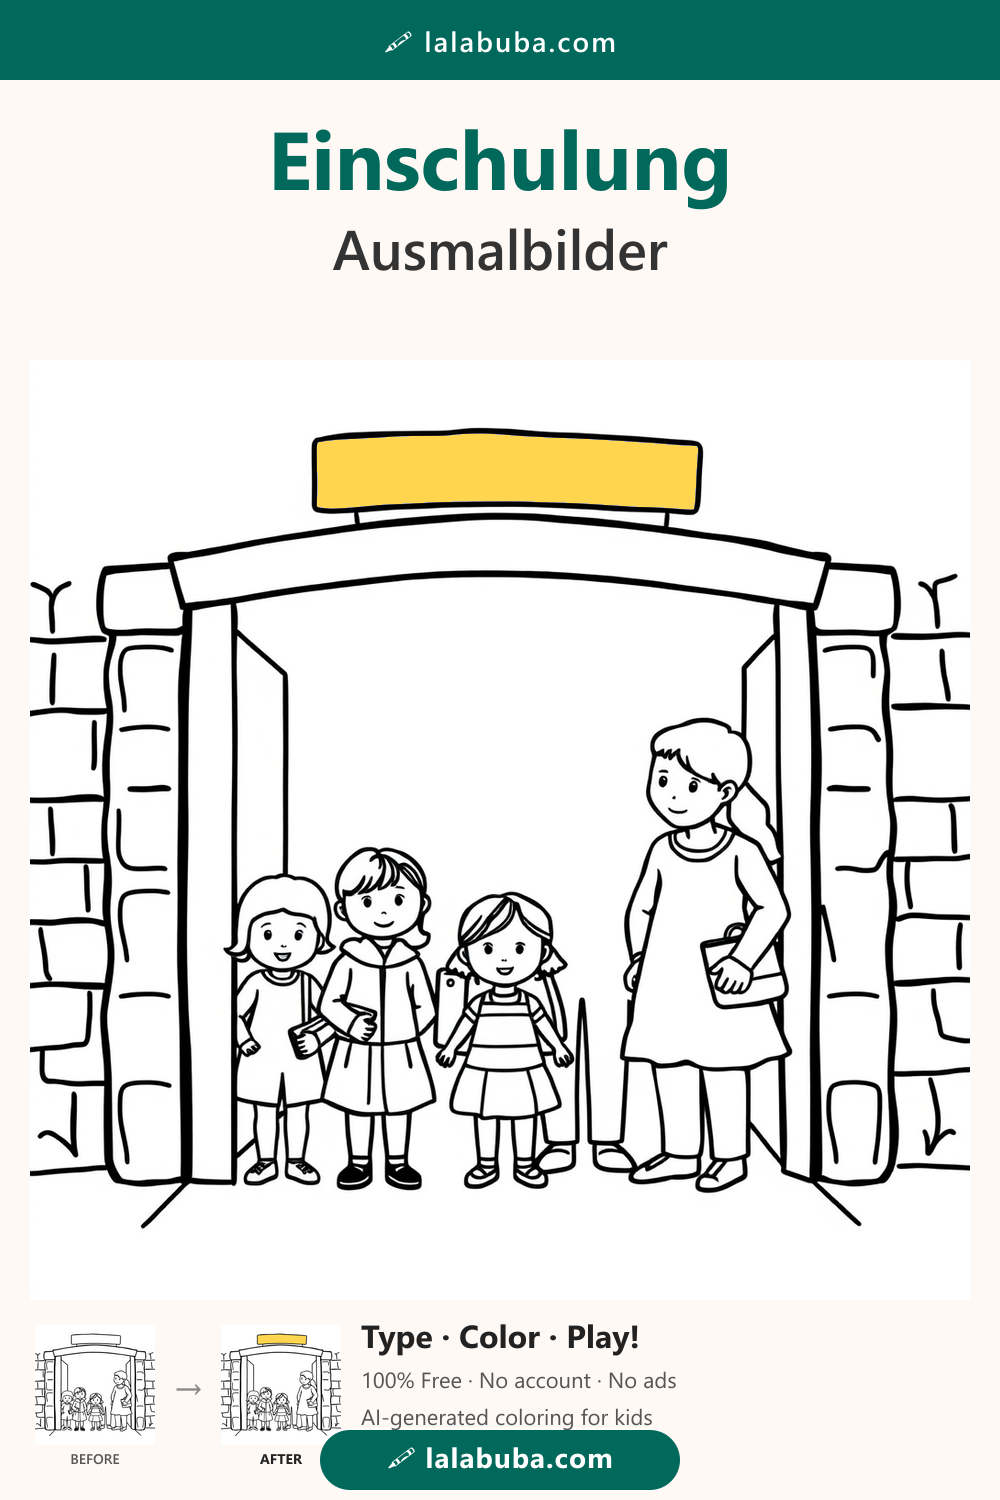
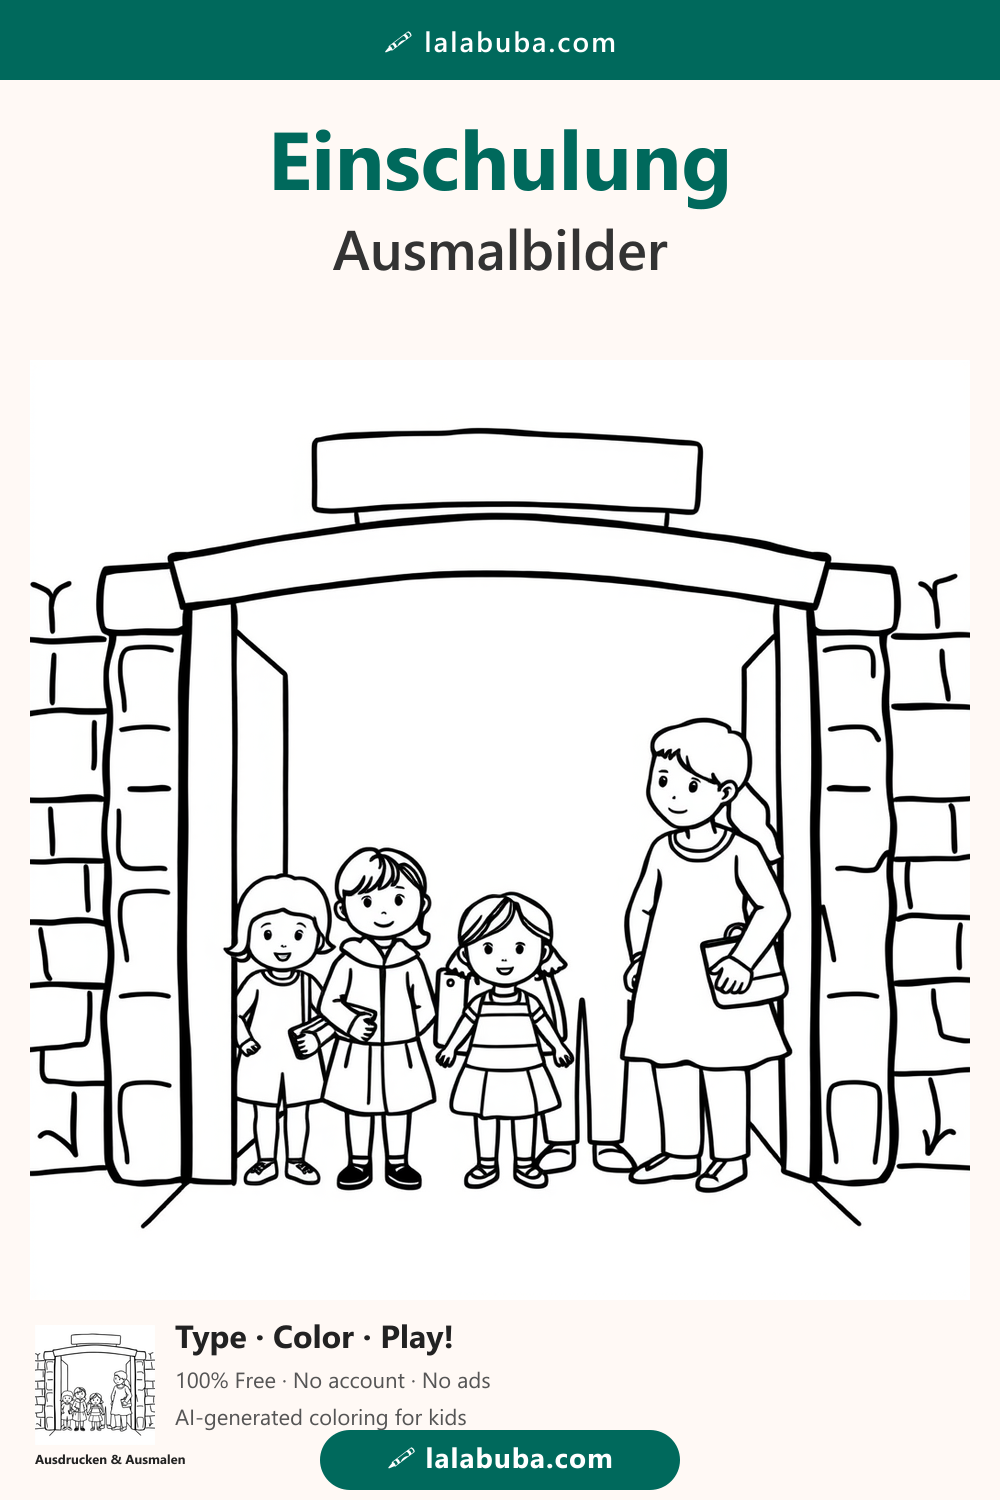
Social pins: retire schultuete, rebuild einschulung with blank line-art format
- pin_schultuete.png DELETED: duplicate of pin posted 8/5; flood-fill leaked
  through outline gaps on all 3 attempts. Manifest row marked RETIRED.
- pin_einschulung.png rebuilt with noFill: true — clean blank line art as hero,
  zero flood fill, "Ausdrucken & Ausmalen" bottom strip label. Eliminates
  the face-color defect class entirely.
- make-social-pins.js: added noFill mode, svgPrintLabel(), forcedColors param,
  bbox-overlap faceZone check.
- manifest.md: schultuete retired + no-rendered-text rule added.

Changed region(s): [[0.186, 0.8587, 0.651, 0.9813], [0.31, 0.276, 0.713, 0.3373], [0.031, 0.9507, 0.186, 0.9813]]

diff --git a/scripts/make-social-pins.js b/scripts/make-social-pins.js
@@ -51,25 +51,9 @@ const PINS = [
     accentLight: '#BBDEFB', // light blue
     keyword: 'rocket coloring pages for kids free printable',
   },
-  {
-    id: 'schultuete',
-    src: 'schultuete-easy-1313383578.png', // clean cone + candies, zero rendered text
-    headline1: 'Schultüte',
-    headline2: 'Ausmalbilder',
-    accentHex: '#B71C1C',   // deep red
-    accentLight: '#FFCDD2', // light red
-    keyword: 'Schultüte Ausmalbilder kostenlos ausdrucken',
-    skipExterior: true,
-    // Force the large cone body to classic Schultüte deep-red (Phase-1 override)
-    forcedColors: [
-      { fx: 0.50, fy: 0.70, color: [183, 28, 28] },
-    ],
-    // Phase-2 fallback: if cone interior was absorbed by skipExterior (open tip),
-    // fill it from the seed point while it's still white in `out`.
-    seeds: [
-      { fx: 0.50, fy: 0.70, color: [183, 28, 28], bounds: { x1: 0.10, y1: 0.30, x2: 0.90, y2: 0.99 } },
-    ],
-  },
+  // schultuete RETIRED (2026-08-09): a Schultüte pin already posted 8/5; flood-fill
+  // consistently leaked through outline gaps. Manifest row removed; file deleted.
+
   {
     id: 'einschulung',
     src: 'einschulung-easy-1520158737.png',
@@ -78,19 +62,9 @@ const PINS = [
     accentHex: '#00695C',   // deep teal
     accentLight: '#B2DFDB', // light teal
     keyword: 'Einschulung Ausmalbilder kostenlos ausdrucken',
-    skipExterior: true,
-    // Full-body exclusion zones in 940 px display space.
-    // The zone check uses BBOX OVERLAP (not center-point) — any region whose
-    // bounding box intersects a zone is left white.  Zones cover each person's
-    // entire silhouette so skin, faces, hands and legs are all uncolored.
-    // Architecture (sign, arch beam, outer stone walls) falls outside every zone
-    // and is still colorized.
-    faceZones: [
-      { x1:  70, y1: 255, x2: 258, y2: 935 }, // child 1 (leftmost)
-      { x1: 158, y1: 208, x2: 378, y2: 935 }, // child 2 (center-left, tallest)
-      { x1: 305, y1: 248, x2: 538, y2: 935 }, // child 3 (center-right, backpack)
-      { x1: 548, y1: 165, x2: 822, y2: 935 }, // teacher (right side, adult)
-    ],
+    // noFill: blank line-art hero — the account's #1 pin format for printable-seekers.
+    // Eliminates the entire flood-fill face-color defect class.
+    noFill: true,
   },
 ];
 
@@ -276,6 +250,13 @@ function svgHeadline(line1, line2, accentHex) {
   </svg>`;
 }
 
+function svgPrintLabel() {
+  return `<svg xmlns="http://www.w3.org/2000/svg" width="200" height="20">
+    <text x="0" y="15" font-family="Segoe UI, Arial, sans-serif" font-size="13"
+      font-weight="700" fill="#222222">Ausdrucken &amp; Ausmalen</text>
+  </svg>`;
+}
+
 function svgBeforeLabel(x, y) {
   return `<svg xmlns="http://www.w3.org/2000/svg" width="120" height="20">
     <text x="60" y="15" font-family="Segoe UI, Arial, sans-serif" font-size="14"
@@ -342,18 +323,22 @@ async function makePin(cfg) {
     .raw()
     .toBuffer();
 
-  console.log(`  Flood-filling ${dispW}×${dispH}...`);
-  const coloredRaw = autoColorize(lineArtBuf, dispW, dispH, {
-    skipExterior:  cfg.skipExterior  || false,
-    faceZones:     cfg.faceZones     || [],
-    seeds:         cfg.seeds         || [],
-    forcedColors:  cfg.forcedColors  || [],
-  });
-
-  // Build colored PNG buffer from raw RGBA
-  const coloredBuf = await sharp(coloredRaw, { raw: { width: dispW, height: dispH, channels: 4 } })
-    .png({ compressionLevel: 6 })
-    .toBuffer();
+  let coloredBuf;
+  if (cfg.noFill) {
+    // Blank line-art format: no flood fill at all
+    coloredBuf = null;
+  } else {
+    console.log(`  Flood-filling ${dispW}×${dispH}...`);
+    const coloredRaw = autoColorize(lineArtBuf, dispW, dispH, {
+      skipExterior:  cfg.skipExterior  || false,
+      faceZones:     cfg.faceZones     || [],
+      seeds:         cfg.seeds         || [],
+      forcedColors:  cfg.forcedColors  || [],
+    });
+    coloredBuf = await sharp(coloredRaw, { raw: { width: dispW, height: dispH, channels: 4 } })
+      .png({ compressionLevel: 6 })
+      .toBuffer();
+  }
 
   // Also build line-art PNG buffer (for display)
   const lineArtPngBuf = await sharp(lineArtBuf, { raw: { width: dispW, height: dispH, channels: 4 } })
@@ -373,10 +358,15 @@ async function makePin(cfg) {
     .png()
     .toBuffer();
 
-  const colorThumbBuf = await sharp(coloredRaw, { raw: { width: dispW, height: dispH, channels: 4 } })
-    .resize(thumbW, thumbH, { fit: 'fill' })
-    .png()
-    .toBuffer();
+  const colorThumbBuf = cfg.noFill ? null : await sharp(
+    autoColorize(lineArtBuf, dispW, dispH, {
+      skipExterior: cfg.skipExterior || false,
+      faceZones:    cfg.faceZones    || [],
+      seeds:        cfg.seeds        || [],
+      forcedColors: cfg.forcedColors || [],
+    }),
+    { raw: { width: dispW, height: dispH, channels: 4 } }
+  ).resize(thumbW, thumbH, { fit: 'fill' }).png().toBuffer();
 
   // ─── Composite the pin ────────────────────────────────────────────────────
   // y positions:
@@ -408,23 +398,31 @@ async function makePin(cfg) {
     { input: Buffer.from(svgAccentBar(cfg.accentHex)), top: 0,    left: 0 },
     // headline
     { input: Buffer.from(svgHeadline(cfg.headline1, cfg.headline2, cfg.accentHex)), top: 100, left: 0 },
-    // main colored image
-    { input: coloredBuf, top: imgY, left: imgX },
-    // before thumbnail
-    { input: lineThumbBuf, top: thumbY, left: 35 },
-    // before label
-    { input: Buffer.from(svgBeforeLabel()), top: labelY, left: 35 },
-    // arrow
-    { input: Buffer.from(svgArrow()), top: arrowY, left: arrowX },
-    // after thumbnail
-    { input: colorThumbBuf, top: colorThY, left: colorThX },
-    // after label
-    { input: Buffer.from(svgAfterLabel()), top: labelY, left: colorThX },
-    // CTA text
-    { input: Buffer.from(svgCtaText()), top: ctaY, left: ctaX },
+    // hero image: blank line art (noFill) or flood-filled art (default)
+    { input: cfg.noFill ? lineArtPngBuf : coloredBuf, top: imgY, left: imgX },
     // pill (centered)
     { input: Buffer.from(svgPill(cfg.accentHex)), top: 1425, left: Math.round((W - 360) / 2) },
   ];
+
+  if (cfg.noFill) {
+    // Blank format strip: single thumbnail + "Ausdrucken & Ausmalen" + CTA
+    const printCtaX = 35 + thumbW + 20;
+    layers.push(
+      { input: lineThumbBuf, top: thumbY, left: 35 },
+      { input: Buffer.from(svgPrintLabel()), top: labelY, left: 35 },
+      { input: Buffer.from(svgCtaText()), top: ctaY, left: printCtaX },
+    );
+  } else {
+    // Standard before→after strip
+    layers.push(
+      { input: lineThumbBuf, top: thumbY, left: 35 },
+      { input: Buffer.from(svgBeforeLabel()), top: labelY, left: 35 },
+      { input: Buffer.from(svgArrow()), top: arrowY, left: arrowX },
+      { input: colorThumbBuf, top: colorThY, left: colorThX },
+      { input: Buffer.from(svgAfterLabel()), top: labelY, left: colorThX },
+      { input: Buffer.from(svgCtaText()), top: ctaY, left: ctaX },
+    );
+  }
 
   const outPath = path.join(OUT, `pin_${cfg.id}.png`);
   await sharp({

diff --git a/docs/social-content/manifest.md b/docs/social-content/manifest.md
@@ -17,12 +17,13 @@ Layout: accent brand bar → keyword headline → colored "after" image (flood-f
 | `pin_cat.png` | Cat (EN) | Cat Coloring Pages | `cat-easy-1005447403.png` | Deep Orange |
 | `pin_unicorn.png` | Unicorn (EN) | Unicorn Coloring Pages | `unicorn-easy-282889560.jpg` | Deep Purple |
 | `pin_rocket.png` | Rocket (EN) | Rocket Coloring Pages | `rocket-easy-1224668489.png` | Deep Blue |
-| `pin_schultuete.png` | Schultüte (DE) | Schultüte Ausmalbilder | `schultuete-easy-1313383578.png` | Deep Red |
+| ~~`pin_schultuete.png`~~ | ~~Schultüte (DE)~~ | RETIRED 2026-08-09 — duplicate of pin already posted 8/5; flood-fill leaked through outline gaps on all attempts. Do not rebuild. | — | — |
 | `pin_einschulung.png` | Einschulung (DE) | Einschulung Ausmalbilder | `einschulung-easy-1520158737.png` | Deep Teal |
 
 **Sources:** `docs/coloring-page-library/{topic}/` (1024×1024 or 768×768)  
 **Colored "after":** flood-fill BFS from actual line art (same image, not different art)  
-**BFS options:** schultuete + einschulung use `skipExterior: true`; schultuete uses `forcedColors` to set cone body deep-red; einschulung uses `faceZones` (full-body, overlap-checked) to leave all person regions white  
+**BFS options:** einschulung uses `noFill: true` — blank line-art hero, zero flood fill (proven format; top pin by 7×). schultuete RETIRED.
+**Rule:** never use library images containing rendered text/letters for pins — AI text is almost always mangled.  
 **Regenerate:** `node scripts/make-social-pins.js` (all) or `node scripts/make-social-pins.js dinosaur` (single)
 
 ---
@@ -95,8 +96,8 @@ docs/social-content/
 │   ├── pin_cat.png                       (1000×1500)
 │   ├── pin_unicorn.png                   (1000×1500)
 │   ├── pin_rocket.png                    (1000×1500)
-│   ├── pin_schultuete.png                (1000×1500)
 │   └── pin_einschulung.png               (1000×1500)
+│   ⚠  pin_schultuete.png                RETIRED — deleted 2026-08-09
 ├── carousels/
 │   └── how-it-works/
 │       ├── slide_01_hook.png             (1080×1350)
